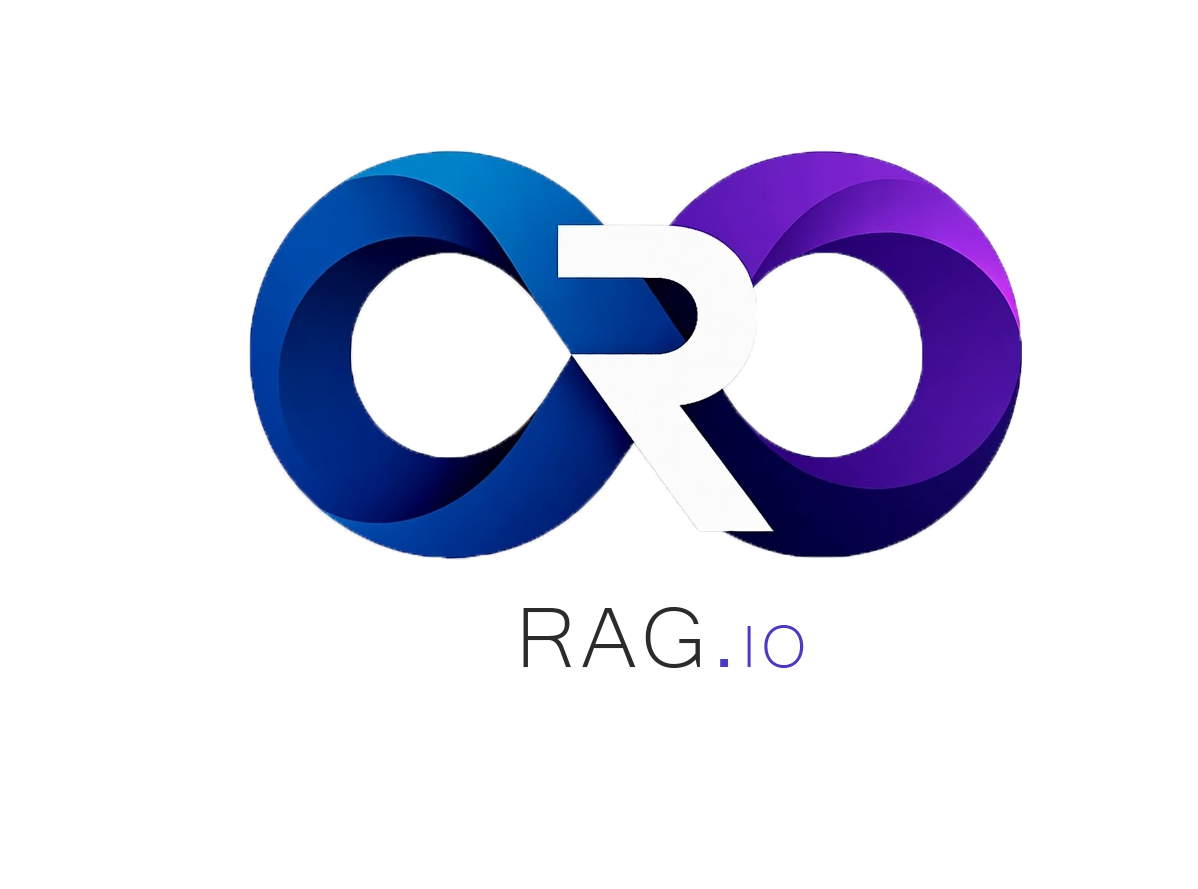
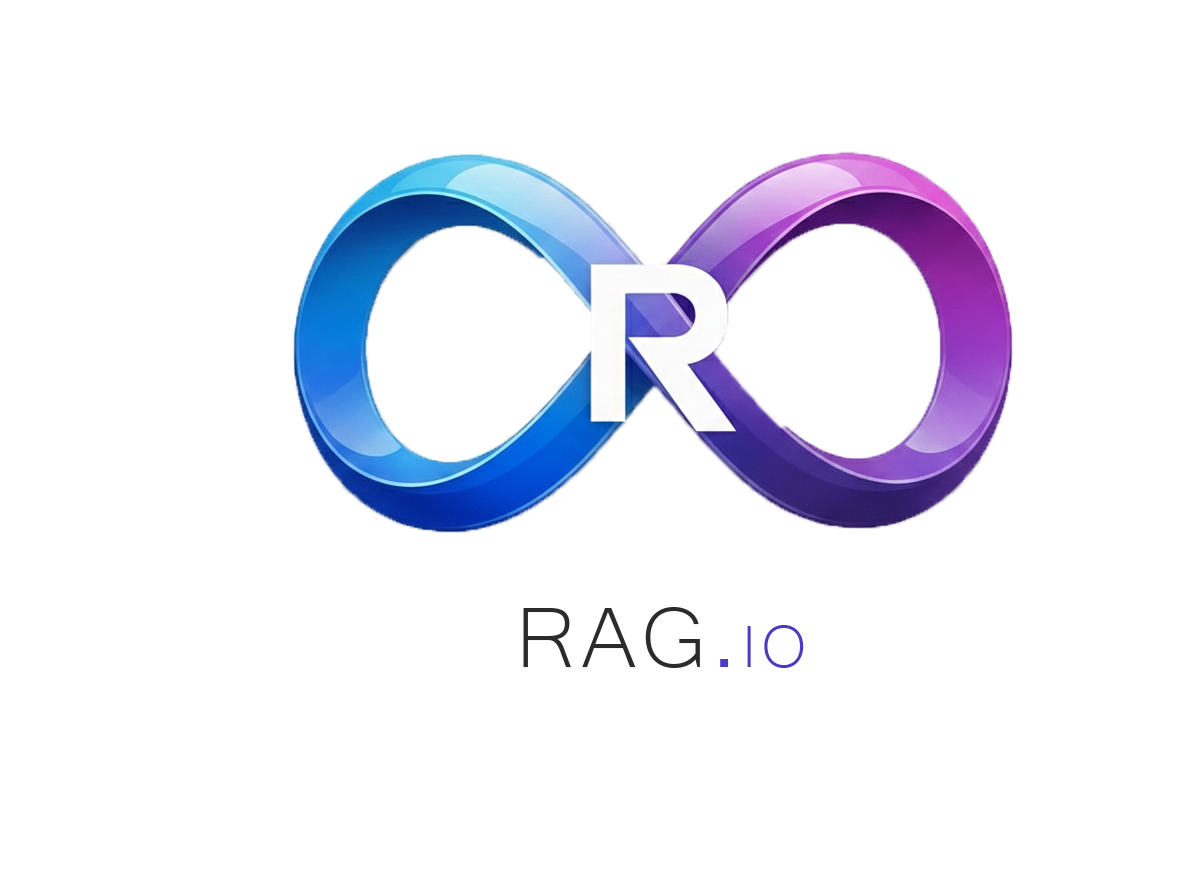
Update & Add RAG.io

Changed region(s): [[0.1853, 0.1519, 0.8648, 0.6378]]

diff --git a/products/rag.html b/products/rag.html
@@ -1,0 +1,120 @@
+<!DOCTYPE html>
+<html lang="fr">
+<head>
+  <meta charset="UTF-8" />
+  <meta name="viewport" content="width=device-width, initial-scale=1" />
+  <title>LLM.io — Multi-Provider Chat Application IA</title>
+  <link rel="stylesheet" href="../assets/css/style.css" />
+  <link rel="stylesheet" href="https://cdnjs.cloudflare.com/ajax/libs/font-awesome/6.4.0/css/all.min.css" />
+  <style>
+      .logo-img {
+      height: 120px;
+      width: auto;
+      object-fit: contain;
+      }
+</style>
+</head>
+
+<body>
+<div class="container">
+<header class="site-header">
+  <nav>
+    <a href="../index.html" class="logo">        
+      <img src="../assets/img/ragio.png" alt="A&ECoding Logo" class="logo-img" />
+      </a>
+    <ul>
+      <li><a href="../index.html">Home</a></li>
+      <li><a href="theai.html">THEAI.io</a></li>
+      <li><a href="llm.html">LLM.io</a></li>
+      <li><a href="../index.html#contact">Contact</a></li>
+    </ul>
+  </nav>
+</header>
+
+<!-- HERO -->
+<section class="hero">
+  <h1>RAG.io</h1>
+  <p class="subtitle">
+    Retrieval-Augmented Generation.
+  </p>
+
+  <div class="hero-cta">
+    <a href="#" class="btn-primary">Presentation</a>
+    <a href="https://github.com/iwebbo/RAG.io" class="btn-secondary" target="_blank">Code source</a>
+  </div>
+</section>
+
+<!-- PRESENTATION -->
+<section class="hero-glass">
+  <h2>Build with</h2>
+    <div class="tech-icons">
+    <i class="fa-brands fa-docker" title="Docker"></i>
+    <i class="fa-brands fa-linux" title="Linux"></i>
+    <i class="fa-brands fa-python" title="Python"></i>
+    <i class="fa-brands fa-github" title="Github"></i>
+    <i class="fa-brands fa-react" title="React"></i>
+  </div>
+</section>
+
+<section class="products" aria-label="Nos applications principales">
+  <article class="product-card" id="theai" tabindex="0">
+    <h2>Current Features</h2>
+    <ul class="features-list">
+      <li><strong>Intelligent Document Search :</strong> ChromaDB-powered semantic search with adjustable retrieval parameters</li>
+      <li><strong>Multi-Provider LLM Support :</strong> Seamless integration with OpenAI, Claude, Gemini, Ollama, and 10+ providers</li>
+      <li><strong>Temperature Control :</strong> Per-conversation adjustment (0.0-2.0)</li>
+      <li><strong>Project-Based Organization :</strong> Isolate document collections and conversations by project</li>
+      <li><strong>Real-Time Streaming :</strong> Server-Sent Events for progressive responses</li>
+      <li><strong>Fine-Grained Control :</strong> Per-conversation temperature, top-k, and context window management	</li>
+      <li><strong>Enterprise Security :</strong> JWT authentication, AES-256 encryption, GDPR compliance</li>
+    </ul>
+  </article>
+
+  <article class="product-card" id="theai" tabindex="0">
+    <h2>Advanced Features</h2>
+    <ul class="features-list">
+      <li><strong>Supported Formats :</strong> Auto-detection for reasoning models (o1-preview, DeepSeek-R1, etc.)</li>
+      <li><strong>Smart Chunking :</strong> Enables high max_tokens for long reasoning</li>
+      <li><strong>Metadata Extraction :</strong> Dynamically fetches available models per provider</li>
+      <li><strong>Token Tracking :</strong> Connection testing with latency monitoring</li>
+      <li><strong>Batch Processing :</strong> Abuse protection (60 req/min, configurable)</li>
+    </ul>
+  </article>
+
+  <article class="product-card" id="theai" tabindex="0">
+    <h2>Providers Supported</h2>
+    <ul class="features-list">
+      <li><strong>OpenAI :</strong> GPT-4o, GPT-4-turbo, o1-preview, o1-mini.</li>
+      <li><strong>Anthropic Claude :</strong> Claude 3.5 Sonnet, Claude 3 Opus</li>
+      <li><strong>Google Gemini :</strong> Gemini 1.5 Pro/Flash, Gemini 2.0</li>
+      <li><strong>OpenRouter :</strong> 200+ models (free + paid)</li>
+      <li><strong>xAI Grok :</strong> Grok-3, Grok-3-mini, Grok-3-vision</li>
+      <li><strong>Groq :</strong> 	Mixtral, LLaMA 3, Gemma</li>
+      <li><strong>HuggingFace :</strong> Zephyr, Mistral, LLaMA 2</li>
+      <li><strong>Ollama :</strong> ollama pull llama3</li>
+      <li><strong>LM Studio :</strong> GUI app</li>
+      <li><strong>vLLM :</strong> Python + CUDA</li>
+      <li><strong>LMDeploy :</strong> Python + TurboMind</li>
+      <li><strong>Oobabooga :</strong> Web UI</li>
+    </ul>
+  </article>
+</section>
+
+  <section class="about" aria-label="Présentation de aecoding.io">
+    <h2>About</h2>
+      <p>This project is licensed under the MIT License - see the LICENSE file for details.</p>
+  </section>
+
+  <section class="about" aria-label="Contact">
+    <h2>Contact me</h2>
+    <p>Built with ❤ for the LLM community</p>
+    <p>For questions, suggestions, or support, please open an issue or contact the maintainers.<a href="mailto:l.kieran95@gmail.com">@me</a>.</p>
+  </section>
+
+
+<footer>
+  <p>© 2025 aecoding.io — Tous droits réservés.</p>
+</footer>
+</div>
+</body>
+</html>

diff --git a/index.html b/index.html
@@ -29,7 +29,7 @@
       </a>
       <ul>
         <li><a href="products/theai.html">THEAI.io</a></li>
-        <li><a href="#ragio">RAG.io</a></li>
+        <li><a href="products/rag.html">RAG.io</a></li>
         <li><a href="products/llm.html">LLM.io</a></li>
         <li><a href="#contact">Contact</a></li>
       </ul>
@@ -53,7 +53,7 @@
     <article class="product-card" id="ragio" tabindex="0">
       <img src="assets/img/ragio.png" alt="RAG.io logo" class="app-img" />
       <h2>RAG.io</h2>
-      <p>RAG.IO transforms your document repositories into expert assistants that do more than just respond — they take action: DevOps orchestrate infrastructures with Terraform/K8s, Accounting generates your chart of accounts and sends approvals, Legal analyzes contracts, HR handles requests — all through a zero-config graphical interface, multi-LLM, multi-source (Git, Wiki, live URLs), deployable in 5 minutes via Docker, ready for Agentic workflows starting tomorrow.</p>
+      <p>RAG.IO transforms your document repositories into expert assistants that do more than just respond, with 13+ LLM providers through a unified interface. Designed for developers and enterprises needing flexibility, traceability, and GDPR compliance.</p>
       <a href="#" class="btn-secondary">Discover RAG.io</a>
     </article>
 
